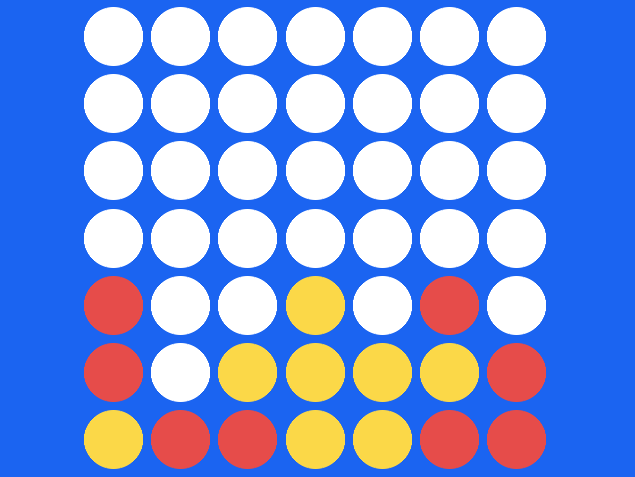
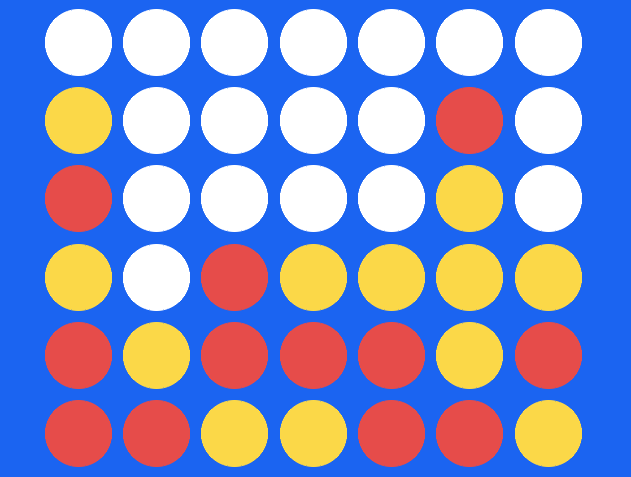
deploy

diff --git a/post/connect4-gym/index.html b/post/connect4-gym/index.html
@@ -132,7 +132,7 @@
 
 <hr>
 <h2 id="connect-4-basics">Connect 4 Basics</h2>
-<p>If you are unfamilar with connect 4, the rules are simple. Players take turns to place counters in the top of a rack, the counters slide to the bottom under gravity into the nearest empty position. The first to make 4 in a row along a row,column or diagonal wins. If the rack is filled without a win, it is a draw. The typical size of a rack is 7 $\times$ 7, this is the size we will be working with initially. In the game below, the yellow player has won the game.</p>
+<p>If you are unfamilar with connect 4, the rules are simple. Players take turns to place counters in the top of a rack, the counters slide to the bottom under gravity into the nearest empty position. The first to make 4 in a row along a row,column or diagonal wins. If the rack is filled without a win, it is a draw. The typical size of a rack is 6 $\times$ 7, this is the size we will be working with initially. In the game below, the yellow player has won the game.</p>
 <figure>
     <img src="/images/connect4/random.png" width="95%"/> 
 </figure>
@@ -158,25 +158,24 @@ class Connect4(gym.Env):
 <hr>
 <h3 id="state">State</h3>
 <p>The first step in creating the environment is defining what we mean by an environment <code>state</code>. Here a state is a particular configuration of counters. The state will be represented as a <code>numpy</code> array filled with 0s, 1s, and -1s, with 0 indicating an empty position, 1 indicating player 1&rsquo;s counter and -1 indicating players 2&rsquo;s counter.</p>
-<pre><code>def __init__(self, n=7):
-    super(Connect4, self).__init__()
-    self.n = 7
-    self.state = np.zeros((self.n, self.n), dtype=np.float32) # n x n grid
-    self.index = np.zeros(self.n, dtype=np.int8) + self.n - 1 # record of placement positions
-    self.turn = 1 # 1 or -1 depending on the turn
+<pre><code> def __init__(self, n=(6,7)):
+        super(Connect4, self).__init__()
+        self.n = n
+        self.state = np.zeros(n, dtype=np.float32) 
+        self.index = np.zeros(n[1], dtype=np.int8) + n[0] - 1 # record of placement positions
+        self.turn = 1 # 1 or -1 depending on the turn
 
-    self.observation_space = gym.spaces.Box(-1, 1,shape=self.state.shape, dtype=np.float32)
-    self.done = False
+        self.observation_space = gym.spaces.Box(-1,1,shape=self.state.shape, dtype=np.float32)
+
 </code></pre><p>The <code>state</code> is initially all 0s (no player has placed any counters yet). The <code>index</code> array keeps a record of the highest most counter in each column of the state, so that we know where to put the next counter in the column. For example:</p>
 <pre><code>[[ 0  0  0  0  0  0  0]
- [ 0  0  0  0  0  0  0]
  [ 0  0  0  0  0  0  0]
  [ 0  0  0  0  0  0  0]
  [ 0  0  0  0  0  0  0]
  [ 0  0  0  0  0  0  1]
  [ 0  1  1  0  0 -1 -1]] 
  
- [ 6  5  5  6  6  5  4]
+ [ 5  4  4  5  5  4  3]
 </code></pre><p>The <code>observation_space</code> defines what sort of state we are dealing with, it is generally used by people who want to make use of your environment so that they know what to expect. In this case, our <code>observation_space</code> is a <code>Box</code> space of size 7 $\times$ 7 where values are between -1 and 1. The reason I have chosen -1 and 1 will become clear in later posts (hint: we will be using neural networks).</p>
 <p>Next, at each <code>step</code>, we should update the <code>state</code>.</p>
 <pre><code>def step(self, action):
@@ -192,7 +191,7 @@ class Connect4(gym.Env):
 <hr>
 <h3 id="action">Action</h3>
 <p>In addition to the <code>observation_space</code> we need to define an <code>action_space</code>, in the <code>__init__</code> method.</p>
-<pre><code>self.action_space = Connect4Discrete(self.n)
+<pre><code>self.action_space = Connect4Discrete(self.n[1])
 </code></pre><p>A player has the option of placing a counter in 1 of 7 columns, but what happens when a column is full? The action becomes illegal, we want this to be communicated some how by our action space. By default Gym doesn&rsquo;t provide this functionality, so we will create a new action space that is derived from Gym&rsquo;s <code>Discrete</code> action space.</p>
 <pre><code>class Connect4Discrete(gym.spaces.Discrete):
     
@@ -211,7 +210,6 @@ class Connect4(gym.Env):
         return state[0, action] == 0
 </code></pre><p>Our <code>action_space</code> defines a <code>mask</code> method, this method tells us which actions are valid for a particular state, see the example below.</p>
 <pre><code>[[ 0  0  0  0  0  1  0]
- [ 0  0  0  0  0  1  0]
  [ 0 -1  0  0  0 -1 -1]
  [ 0  1  0  0  1  1 -1]
  [ 1  1 -1  0 -1 -1  1]
@@ -230,13 +228,12 @@ class Connect4(gym.Env):
 h = self.state[i,:] == t
 v = self.state[:,j] == t
 lr = np.diag(self.state, k = j - i) == t
-rl = np.diag(np.fliplr(self.state), k = (self.n - 1 - j) - i)
+rl = np.diag(np.fliplr(self.state), k = (self.n[1] - 1 - j) - i)
 </code></pre><p>The example below illustrates these operations, where player 2 has wont the game in the horizontal.</p>
 <pre><code>action = 3  # place in column 3
 turn = -1   # player 2's turn
 state = 
     [[ 0  0  0  0  0  1  0]
-     [ 0  0  0  0  0  1  0]
      [ 0 -1  0  0  0 -1 -1]
      [ 0  1  0  0  1  1 -1]
      [ 1  1 -1 -1 -1 -1  1]
@@ -244,7 +241,7 @@ state =
      [-1 -1  1  1  1 -1  1]]
 
 h  = [ 0  0  1  1  1  1  0] 
-v  = [ 0  0  0  0  1  1  0]
+v  = [ 0  0  0  1  1  0]
 lr = [ 0  1  0  1  0  1]
 rl = [ 0  1  0  1  0  1]
 </code></pre><p>Now the question is, how do we extract the string of 4 1&rsquo;s to indicate a win? the following function does just this:</p>
